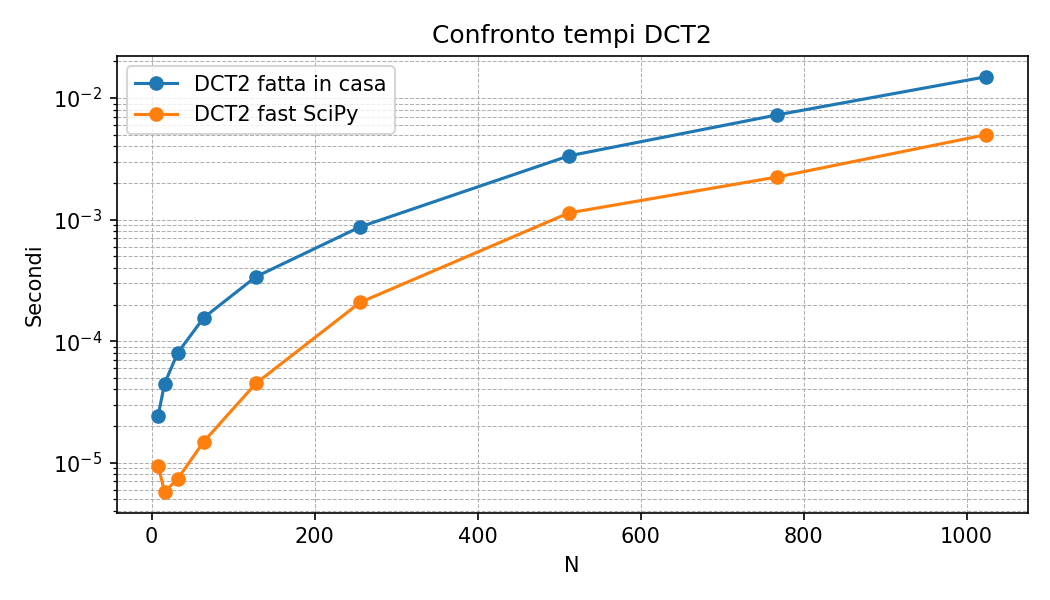
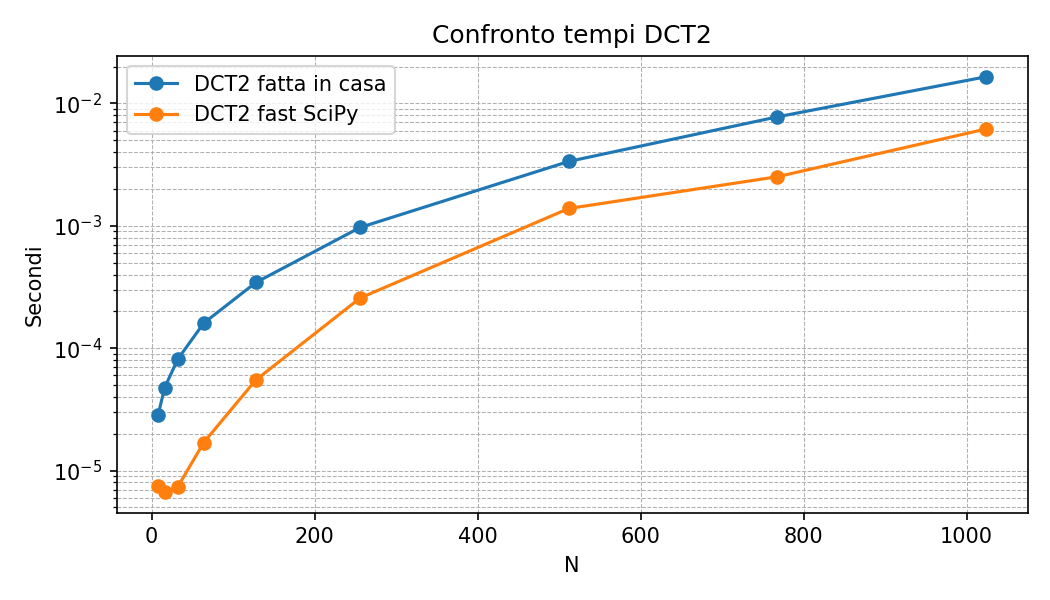
modificeìhe relazione e slide, aggiunto caso F=10 per le scacchiere

Changed region(s): [[0.061, 0.12, 0.9752, 0.69], [0.061, 0.72, 0.9752, 0.84], [0.061, 0.15, 0.1219, 0.21]]

diff --git a/src/run_assignment.py b/src/run_assignment.py
@@ -48,6 +48,9 @@ def main() -> None:
     print(f"Benchmark scritto in: {benchmark_csv}")
     print(f"Grafico benchmark scritto in: {plot_path}")
 
+    if args.checkerboards:
+        run_checkerboards(base_dir, output_dir)
+
     if args.examples:
         image_paths = resolve_images(args.image, base_dir)
         example_dir = output_dir / "examples"
@@ -128,7 +131,8 @@ def parse_args() -> argparse.Namespace:
     )
     parser.add_argument("--output", type=Path, default=Path("results"), help="Cartella output. Default: results.")
     parser.add_argument("--no-examples", dest="examples", action="store_false", help="Esegue solo il benchmark.")
-    parser.set_defaults(examples=True)
+    parser.add_argument("--no-checkerboards", dest="checkerboards", action="store_false", help="Disabilita il test sulle scacchiere con F=10.")
+    parser.set_defaults(examples=True, checkerboards=True)
     return parser.parse_args()
 
 
@@ -148,6 +152,71 @@ def run_benchmark(sizes: Sequence[int], repeats: int) -> list[dict[str, str]]:
         )
         print(f"N={size:4d} homemade={homemade_time:.6f}s fast={fast_time:.6f}s")
     return rows
+
+
+def run_checkerboards(base_dir: Path, output_dir: Path) -> None:
+    img_dir = base_dir / "immagini"
+    checkerboard_files = [
+        "20x20.bmp",
+        "40x40.bmp",
+        "80x80.bmp",
+        "160x160.bmp",
+        "320x320.bmp",
+        "640x640.bmp",
+    ]
+    image_paths = [img_dir / f for f in checkerboard_files if (img_dir / f).exists()]
+    
+    if not image_paths:
+        return
+        
+    scac_dir = output_dir / "scacchiere_F10"
+    scac_dir.mkdir(parents=True, exist_ok=True)
+    
+    f = 10
+    d_values = [4, 10, 16]
+    
+    for image_path in image_paths:
+        print(f"\nElaborazione scacchiera (F=10): {image_path.name}")
+        original = load_bmp_grayscale(image_path)
+        
+        compressions = []
+        metrics = []
+        
+        for d in d_values:
+            if f > original.shape[0] or f > original.shape[1]:
+                print(f"  Salto F={f}, d={d}: blocco più grande dell'immagine {original.shape}")
+                continue
+
+            cropped_original, compressed = compress_image_array(
+                original,
+                block_size=f,
+                cutoff=d,
+            )
+            
+            mse, psnr = calculate_metrics(cropped_original, compressed)
+            comp_ratio = calculate_compression_ratio(f, d)
+            
+            compressions.append((f, d, compressed, psnr))
+            metrics.append({
+                "F": f,
+                "d": d,
+                "mse": float(mse),
+                "psnr": float(psnr),
+                "compression_ratio": float(comp_ratio)
+            })
+            
+        if not compressions:
+            print(f"Nessuna compressione valida per {image_path.name}.")
+            continue
+
+        grid_path = scac_dir / f"{image_path.stem}_grid.png"
+        csv_path = scac_dir / f"{image_path.stem}_metrics.csv"
+        
+        save_compression_grid(compressions, grid_path, image_path.name)
+        write_image_metrics_csv(metrics, csv_path)
+        
+        print(f"Grid salvata in: {grid_path}")
+        print(f"CSV salvato in: {csv_path}")
 
 
 def write_benchmark_csv(rows: list[dict[str, str]], path: Path) -> None:

diff --git a/slides/slides.tex b/slides/slides.tex
@@ -33,6 +33,24 @@
     \titlepage
 \end{frame}
 
+\begin{frame}{Introduzione al Progetto}
+    L'obiettivo è studiare e applicare la Trasformata Discreta del Coseno (DCT) per la compressione di immagini in toni di grigio. Il lavoro si divide in due fasi:
+    \begin{itemize}
+        \item Implementazione della DCT bidimensionale: scrittura di una versione basata sul prodotto matriciale e confronto con l'implementazione \emph{fast} di libreria.
+        \item Sviluppo di un software con interfaccia grafica per applicare la compressione a blocchi su immagini reali e sintetiche.
+        \item Analisi del compromesso tra compressione e qualità al variare della dimensione dei blocchi ($F$) e della soglia di taglio delle alte frequenze ($d$).
+    \end{itemize}
+\end{frame}
+
+\begin{frame}{La Trasformata Discreta del Coseno (DCT)}
+    La DCT nasce dalla teoria delle serie di Fourier per approssimare un segnale campionato riducendo il fenomeno di Gibbs ai bordi.
+    \begin{itemize}
+        \item Il segnale viene riflesso per renderlo pari, per poi periodizzarlo: si eliminano così le discontinuità e si azzerano i coefficienti associati ai seni, lasciando una base di soli coseni ortogonali.
+        \item Compattazione dell'energia: più l'immagine è liscia, più i coefficienti della trasformata decadono rapidamente all'aumentare delle frequenze.
+        \item La DCT concentra quasi tutta l'energia a bassa frequenza, permettendo di azzerare quelle alte con un degrado visivo minimo.
+    \end{itemize}
+\end{frame}
+
 \begin{frame}{DCT2: Implementazione Custom}
     Abbiamo sfruttato la \emph{separabilità} del nucleo coseno.
     \begin{itemize}
@@ -253,6 +271,35 @@
     \begin{figure}
         \centering
         \includegraphics[width=\textwidth,height=0.85\textheight,keepaspectratio]{../relazione/figures/640x640_metrics.png}
+    \end{figure}
+\end{frame}
+
+\begin{frame}{Scacchiera: Il caso limite F=10}
+    \begin{itemize}
+        \item Impostando la dimensione del blocco a $F=10$, si ottiene un allineamento spaziale perfetto con le celle $10 \times 10$ dell'immagine.
+        \item Ogni blocco ricade interamente all'interno di una singola cella, presentando così pixel di intensità del tutto uniforme.
+        \item L'energia spaziale si concentra unicamente nella componente continua, permettendo una compressione perfetta al minimo della soglia.
+    \end{itemize}
+\end{frame}
+
+\begin{frame}{Scacchiera 20x20: Compressione con F=10}
+    \begin{figure}
+        \centering
+        \includegraphics[width=\textwidth,height=0.85\textheight,keepaspectratio]{../relazione/figures/20x20_grid_F10.png}
+    \end{figure}
+\end{frame}
+
+\begin{frame}{Scacchiera 160x160: Compressione con F=10}
+    \begin{figure}
+        \centering
+        \includegraphics[width=\textwidth,height=0.85\textheight,keepaspectratio]{../relazione/figures/160x160_grid_F10.png}
+    \end{figure}
+\end{frame}
+
+\begin{frame}{Scacchiera 640x640: Compressione con F=10}
+    \begin{figure}
+        \centering
+        \includegraphics[width=\textwidth,height=0.85\textheight,keepaspectratio]{../relazione/figures/640x640_grid_F10.png}
     \end{figure}
 \end{frame}
 

diff --git a/relazione/relazione.tex b/relazione/relazione.tex
@@ -603,6 +603,29 @@ scacchiera si riallineano ogni 40 pixel. Per questo
 motivo, tutte le scacchiere con lato multiplo di 40 contengono la stessa
 configurazione di blocchi e danno risultati identici.
 
+Un caso particolare e limite si osserva impostando la dimensione del blocco $F=10$. Essendo le celle della scacchiera esattamente di $10 \times 10$ pixel, questa scelta garantisce un allineamento spaziale perfetto tra la partizione a blocchi dell'algoritmo e la struttura dell'immagine. In questa specifica configurazione ogni blocco ricade interamente all'interno di una singola cella, contenendo pixel di intensità uniforme. L'intera energia spaziale si concentra così nella sola componente continua della DCT, permettendo all'algoritmo di raggiungere una compressione perfetta a prescindere dal parametro $d$, a patto di mantenerlo strettamente positivo.
+
+\begin{figure}[H]
+\centering
+\includegraphics[width=0.95\textwidth]{figures/20x20_grid_F10.png}
+\caption{Scacchiera $20\times20$: compressione con $F=10$.}
+\label{fig:scac20-grid-f10}
+\end{figure}
+
+\begin{figure}[H]
+\centering
+\includegraphics[width=0.95\textwidth]{figures/160x160_grid_F10.png}
+\caption{Scacchiera $160\times160$: compressione con $F=10$.}
+\label{fig:scac160-grid-f10}
+\end{figure}
+
+\begin{figure}[H]
+\centering
+\includegraphics[width=0.95\textwidth]{figures/640x640_grid_F10.png}
+\caption{Scacchiera $640\times640$: compressione con $F=10$.}
+\label{fig:scac640-grid-f10}
+\end{figure}
+
 \subsection{Fotografie reali}
 
 Le cinque fotografie analizzate (\texttt{bridge}, \texttt{cathedral},
@@ -708,8 +731,8 @@ tonypitony  & 26.0\,\scriptsize(4.7\,\%) & 32.5\,\scriptsize(23.4\,\%) & 40.3\,\
 \end{table}
 
 I risultati confermano queste premesse. Conservando appena il
-$5\%$ dei coefficienti, con $d=2$, tutte le fotografie superano i
-$28$~dB, con una ricostruzione visivamente fedele all'originale.
+$5\%$ dei coefficienti, con $d=2$, quasi tutte le fotografie superano i
+$26$~dB (a parte scarpa), con una ricostruzione abbastanza visivamente fedele all'originale.
 Il divario rispetto alla scacchiera è netto: a parità di soglia, la
 scacchiera non raggiungeva i $10$~dB.
 Portando la soglia a $d=5$, cioè mantenendo meno di
@@ -724,7 +747,7 @@ rapidamente al crescere di $d$. Questo accade perché
 i loro dettagli producono alte frequenze \emph{sparse}, generate da
 contorni isolati, e non dense come nel caso della scacchiera. Infine,
 a parità di frazione di coefficienti mantenuti,
-i blocchi più ampi ($F=32$) danno risultati migliori dei blocchi
+i blocchi più ampi ($F=32$) danno risultati leggermente migliori dei blocchi
 piccoli ($F=8$) in presenza di strutture estese: un blocco più
 grande cattura dipendenze spaziali più ampie e
 converge più rapidamente verso la ricostruzione esatta.
@@ -765,9 +788,7 @@ in mezzo, e i nostri esperimenti ne mostrano il motivo.
 Il codice è documentato in modo sistematico: ogni modulo ha una \emph{docstring}
 di intestazione che ne descrive lo scopo, e ogni funzione pubblica ha una
 \emph{docstring} che ne specifica comportamento, argomenti (con tipo atteso),
-valore di ritorno ed eccezioni sollevate. Le convenzioni seguono lo stile
-\texttt{numpy}/PEP~257, con annotazioni di tipo (\emph{type hints}) sulle
-firme. Di seguito si riporta la documentazione funzione per funzione.
+valore di ritorno ed eccezioni sollevate.Di seguito si riporta la documentazione funzione per funzione.
 
 \subsection{Modulo \texttt{dct\_utils.py}}
 
@@ -867,9 +888,17 @@ Misura il tempo di esecuzione di una funzione restituendo il \emph{minimo} su
 
 \paragraph{\texttt{main()}.}
 Parsa gli argomenti da riga di comando, esegue il benchmark dei tempi (con
-\texttt{--size} ripetibile, \texttt{--repeats}) e, salvo \texttt{--no-examples},
-genera per ogni immagine una griglia di compressioni, un grafico di metriche e
+\texttt{--size} ripetibile, \texttt{--repeats}), esegue i test specifici per le scacchiere
+(disattivabile con \texttt{--no-checkerboards}) e, salvo \texttt{--no-examples},
+genera per ogni immagine standard una griglia di compressioni, un grafico di metriche e
 un CSV in \texttt{results/examples/}.
+
+\paragraph{\texttt{run\_checkerboards(base\_dir, output\_dir)}.}
+Genera un'esecuzione dedicata esclusivamente alle immagini delle scacchiere a varia
+risoluzione. Impostando $F=10$ (dimensione fissa del blocco che combacia esattamente con
+le celle dell'immagine originale) e ciclando su 3 valori specifici di $d$,
+salva le griglie di ricostruzione visiva e le statistiche nei file CSV, ma senza produrre
+i plot delle metriche, all'interno della cartella \texttt{results/scacchiere\_F10/}.
 
 \paragraph{\texttt{run\_benchmark(sizes, repeats)}.}
 Ciclo di misura: per ogni $N$ genera una matrice casuale $N\times N$ (seed

diff --git a/README.md b/README.md
@@ -50,11 +50,13 @@ Si possono indicare piu' dimensioni o immagini ripetendo gli argomenti:
 python src/run_assignment.py --size 16 --size 32 --image immagini/320x320.bmp
 ```
 
-Per eseguire solo il benchmark saltando le immagini:
+Per eseguire solo il benchmark saltando sia le immagini standard che i test mirati sulle scacchiere:
 
 ```bash
-python src/run_assignment.py --no-examples
+python src/run_assignment.py --no-examples --no-checkerboards
 ```
+
+La routine delle scacchiere genera in `results/scacchiere_F10/` dei test specifici con $F=10$ e metriche CSV (senza grafici) pensati per mostrare il caso di compressione perfetta.
 
 ## Interfaccia grafica (GUI)
 